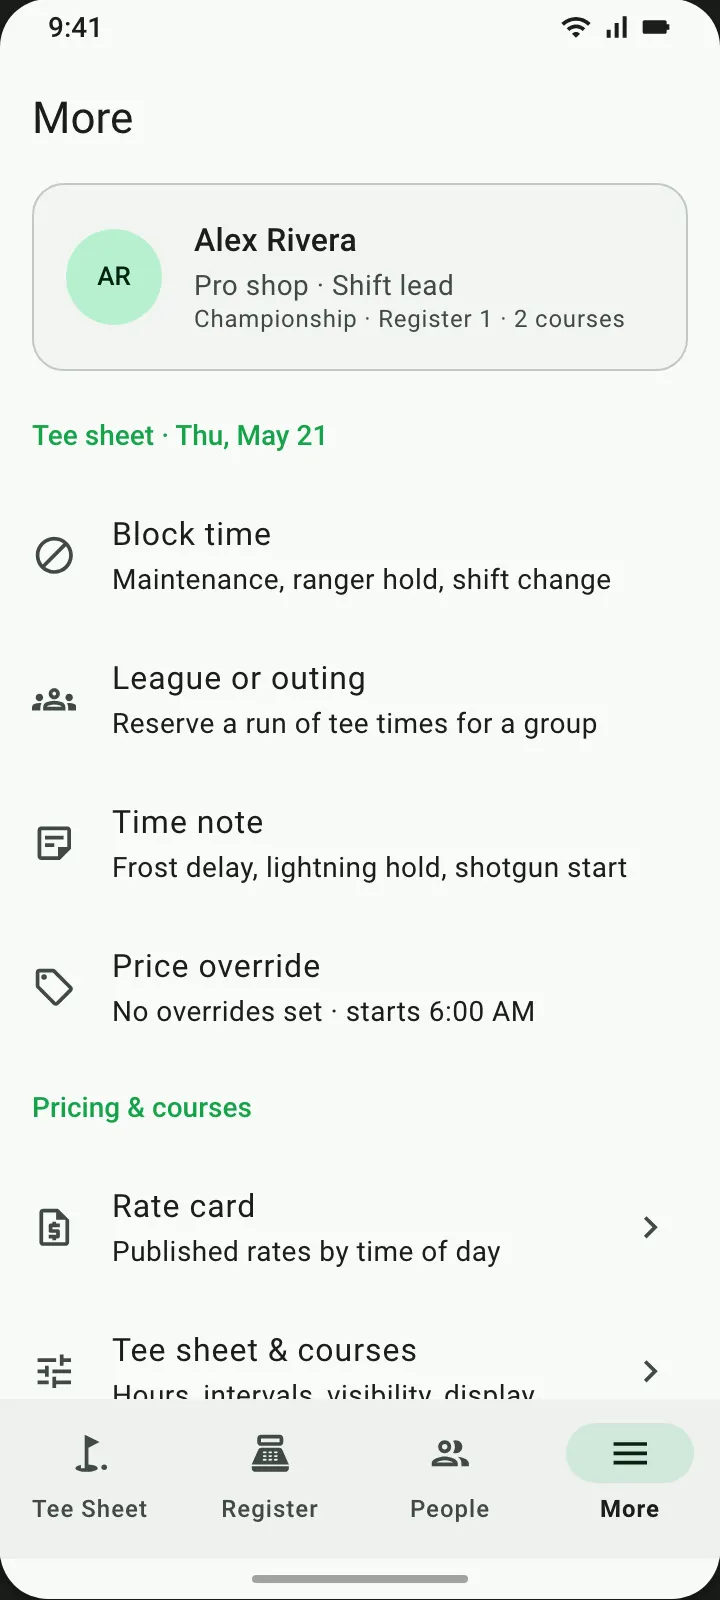
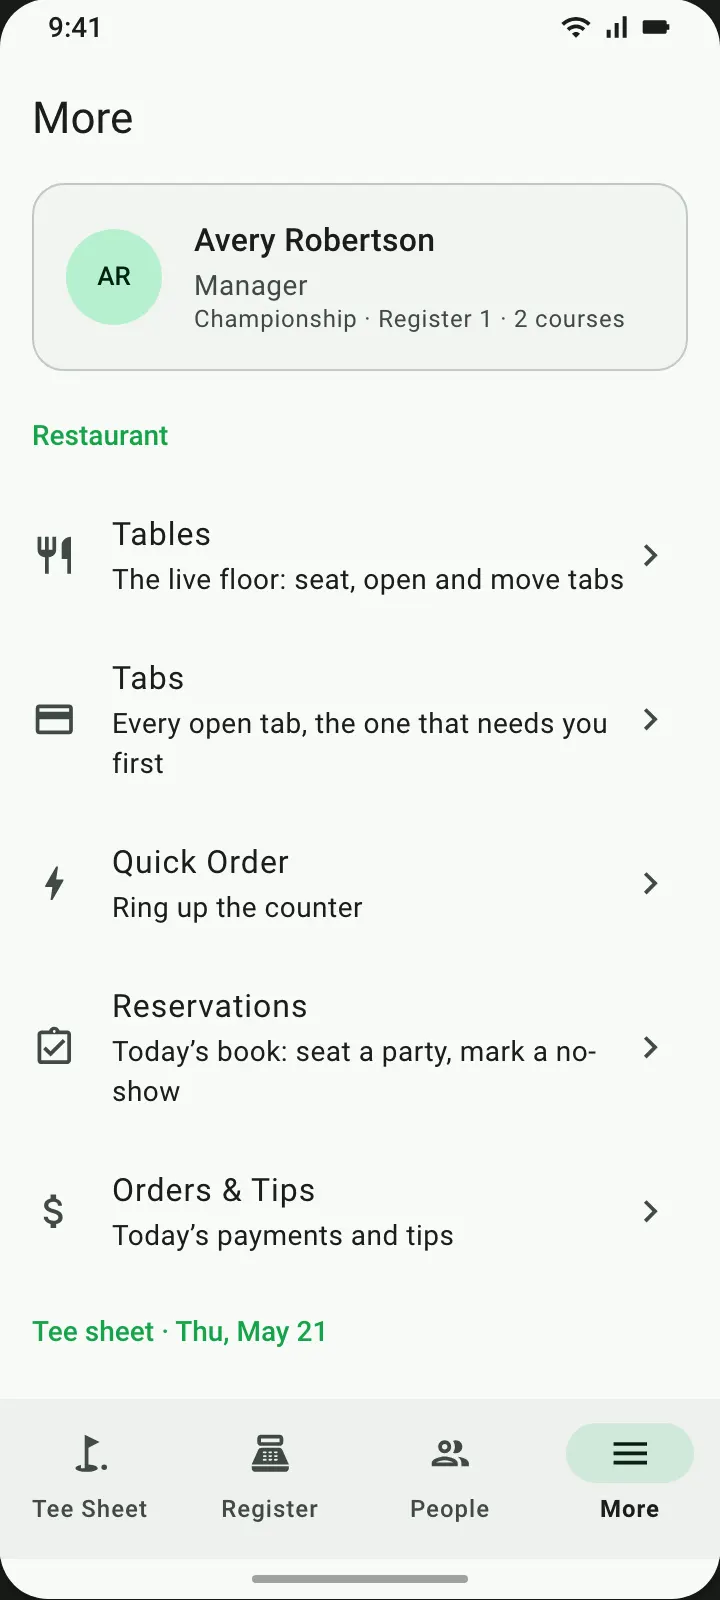
Docs and phone: the handheld restaurant in Start Here, and room under the FAB
- Start Here, the review summary and the phone Screen index now say both
  surfaces are V1 → V2, with the restaurant on the handheld and its bar by role;
  the roadmap's "being built now" milestone is dated Nov 26 and links the index.
- Phone screen index: cards and screenshots for Quick Order, Tabs, Tables,
  Reservations and Orders & Tips; Global Nav describes the bar by role.
- MobileScreen: with a FAB, the body ends in 88px of room, so a tab's total
  and the People list's last row scroll out from under the button.

diff --git a/src/stories/prototypes/screen-index-data.ts b/src/stories/prototypes/screen-index-data.ts
@@ -1,7 +1,7 @@
 // Generated by scripts/gen-screen-index.mjs. Do not edit by hand.
 // Edit descriptions in that script (DESCRIPTIONS), then run it with Storybook up:
 //   node scripts/gen-screen-index.mjs
-// Rows are in sidebar order, which is nav order. 413 tablet stories · 172 phone stories.
+// Rows are in sidebar order, which is nav order. 413 tablet stories · 212 phone stories.
 
 export interface ScreenIndexRow {
   /** Storybook story id. */
@@ -442,6 +442,13 @@ export const TABLET_SCREENS: ScreenIndexRow[] = [
 export const MOBILE_SCREENS: ScreenIndexRow[] = [
   {"id":"prototypes-mobile-global-nav-navigation--interactive","area":"Global Nav","topic":"Navigation","name":"Interactive","description":"The whole phone app, clickable: four destinations on the navigation bar, everything else one level down.","docs":"prototypes-mobile-global-nav-navigation--overview","route":"mobile-screens-0-·-navigation--interactive"},
   {"id":"prototypes-mobile-global-nav-navigation--order-in-progress","area":"Global Nav","topic":"Navigation","name":"Order In Progress","description":"The whole phone app with an order on the Register tab, so its badge shows the line count.","docs":"prototypes-mobile-global-nav-navigation--overview","route":"mobile-screens-0-·-navigation--order-in-progress"},
+  {"id":"prototypes-mobile-global-nav-menu-by-role--a-servers-bar","area":"Global Nav","topic":"Menu by role","name":"A Servers Bar","description":"A server's bar: the restaurant. Jordan Ellis opens on the floor.","docs":"prototypes-mobile-global-nav-menu-by-role--overview","route":"prototypes-mobile-global-nav-menu-by-role--a-servers-bar"},
+  {"id":"prototypes-mobile-global-nav-menu-by-role--a-hosts-bar","area":"Global Nav","topic":"Menu by role","name":"A Hosts Bar","description":"A host's bar: seating. Tables and Reservations — the host seats parties, the server orders.","docs":"prototypes-mobile-global-nav-menu-by-role--overview","route":"prototypes-mobile-global-nav-menu-by-role--a-hosts-bar"},
+  {"id":"prototypes-mobile-global-nav-menu-by-role--a-managers-more","area":"Global Nav","topic":"Menu by role","name":"A Managers More","description":"A manager keeps the golf bar, and finds the restaurant in More.","docs":"prototypes-mobile-global-nav-menu-by-role--overview","route":"prototypes-mobile-global-nav-menu-by-role--a-managers-more"},
+  {"id":"prototypes-mobile-global-nav-menu-by-role--a-manager-opens-tables","area":"Global Nav","topic":"Menu by role","name":"A Manager Opens Tables","description":"From More, the floor is a push: a back arrow, and the golf bar's own stacks untouched.","docs":"prototypes-mobile-global-nav-menu-by-role--overview","route":"prototypes-mobile-global-nav-menu-by-role--a-manager-opens-tables"},
+  {"id":"prototypes-mobile-global-nav-menu-by-role--pro-shop-sees-no-restaurant","area":"Global Nav","topic":"Menu by role","name":"Pro Shop Sees No Restaurant","description":"Pro shop sees no restaurant at all — not dimmed, not listed.","docs":"prototypes-mobile-global-nav-menu-by-role--overview","route":"prototypes-mobile-global-nav-menu-by-role--pro-shop-sees-no-restaurant"},
+  {"id":"prototypes-mobile-global-nav-menu-by-role--a-servers-more","area":"Global Nav","topic":"Menu by role","name":"A Servers More","description":"A server's More has what is not on their bar — Reservations and Orders & Tips — and none of the tee sheet's tools.","docs":"prototypes-mobile-global-nav-menu-by-role--overview","route":"prototypes-mobile-global-nav-menu-by-role--a-servers-more"},
+  {"id":"prototypes-mobile-global-nav-menu-by-role--switching-operator","area":"Global Nav","topic":"Menu by role","name":"Switching Operator","description":"Switching operator changes the bar. The manager signs Jordan in from More; the bar becomes the server's while More stays open — More is on every bar, so nobody is…","docs":"prototypes-mobile-global-nav-menu-by-role--overview","route":"prototypes-mobile-global-nav-menu-by-role--switching-operator"},
   {"id":"prototypes-mobile-pro-shop-register-order--empty-register","area":"Pro Shop","topic":"Register & order","name":"Empty Register","description":"The register at rest — the destination root, so no back arrow and the navigation bar is showing.","docs":"prototypes-mobile-pro-shop-register-order--overview","route":"mobile-screens-1-·-register-order--empty-register"},
   {"id":"prototypes-mobile-pro-shop-register-order--search-items","area":"Pro Shop","topic":"Register & order","name":"Search Items","description":"Search results replace the category grid in place — the MD3 search pattern — rather than pushing a search screen, so clearing the field is the way back.","docs":"prototypes-mobile-pro-shop-register-order--overview","route":"mobile-screens-1-·-register-order--search-items"},
   {"id":"prototypes-mobile-pro-shop-register-order--order-in-progress","area":"Pro Shop","topic":"Register & order","name":"Order In Progress","description":"An order in progress. The start cards give way to the View order bar, pinned above the navigation bar with the line count and running total; the Register tab carries…","docs":"prototypes-mobile-pro-shop-register-order--overview","route":"mobile-screens-1-·-register-order--order-in-progress"},
@@ -598,6 +605,39 @@ export const MOBILE_SCREENS: ScreenIndexRow[] = [
   {"id":"prototypes-mobile-tee-sheet-operations--rate-card","area":"Tee Sheet","topic":"Operations","name":"Rate Card","description":"The published rate card: a read-only push from More.","docs":"prototypes-mobile-tee-sheet-operations--overview","route":"mobile-screens-6-·-operations--rate-card"},
   {"id":"prototypes-mobile-tee-sheet-operations--course-settings","area":"Tee Sheet","topic":"Operations","name":"Course Settings","description":"Tee sheet & courses overview, pushed from More.","docs":"prototypes-mobile-tee-sheet-operations--overview","route":"mobile-screens-6-·-operations--course-settings"},
   {"id":"prototypes-mobile-tee-sheet-operations--course-settings-course","area":"Tee Sheet","topic":"Operations","name":"Course Settings Course","description":"One course's settings, two levels below More.","docs":"prototypes-mobile-tee-sheet-operations--overview","route":"mobile-screens-6-·-operations--course-settings-course"},
+  {"id":"prototypes-mobile-quick-order-counter-on-the-handheld--the-counter","area":"Quick Order","topic":"Counter on the handheld","name":"The Counter","description":"The counter, on the menu running at noon, grill first.","docs":"prototypes-mobile-quick-order-counter-on-the-handheld--overview","route":"prototypes-mobile-quick-order-counter-on-the-handheld--the-counter"},
+  {"id":"prototypes-mobile-quick-order-counter-on-the-handheld--ring-a-burger","area":"Quick Order","topic":"Counter on the handheld","name":"Ring A Burger","description":"Ring a burger. Temp and Sides are required; the burger can't be added until both are chosen.","docs":"prototypes-mobile-quick-order-counter-on-the-handheld--overview","route":"prototypes-mobile-quick-order-counter-on-the-handheld--ring-a-burger"},
+  {"id":"prototypes-mobile-quick-order-counter-on-the-handheld--review-the-order","area":"Quick Order","topic":"Counter on the handheld","name":"Review The Order","description":"Review order — the tablet's rail, as a page: each dish with its choices and its allergy flag, not yet sent; Send 2 and Charge.","docs":"prototypes-mobile-quick-order-counter-on-the-handheld--overview","route":"prototypes-mobile-quick-order-counter-on-the-handheld--review-the-order"},
+  {"id":"prototypes-mobile-quick-order-counter-on-the-handheld--search-both-menus","area":"Quick Order","topic":"Counter on the handheld","name":"Search Both Menus","description":"Search both menus. \"caesar\" finds the 19th Hole's salad from the counter.","docs":"prototypes-mobile-quick-order-counter-on-the-handheld--overview","route":"prototypes-mobile-quick-order-counter-on-the-handheld--search-both-menus"},
+  {"id":"prototypes-mobile-quick-order-counter-on-the-handheld--a-menu-that-is-not-running","area":"Quick Order","topic":"Counter on the handheld","name":"A Menu That Is Not Running","description":"A menu that isn't running. Dinner starts at 5:00 PM: chosen from the menus sheet at noon, it says so above its items, which still ring at their usual price.","docs":"prototypes-mobile-quick-order-counter-on-the-handheld--overview","route":"prototypes-mobile-quick-order-counter-on-the-handheld--a-menu-that-is-not-running"},
+  {"id":"prototypes-mobile-quick-order-counter-on-the-handheld--while-a-tab-is-being-paid","area":"Quick Order","topic":"Counter on the handheld","name":"While A Tab Is Being Paid","description":"The counter waits while a tab is being paid.","docs":"prototypes-mobile-quick-order-counter-on-the-handheld--overview","route":"prototypes-mobile-quick-order-counter-on-the-handheld--while-a-tab-is-being-paid"},
+  {"id":"prototypes-mobile-tabs-tabs-on-the-handheld--open-tabs","area":"Tabs","topic":"Tabs on the handheld","name":"Open Tabs","description":"Every open tab, Farnsworth's check request first, then the tables with food not sent.","docs":"prototypes-mobile-tabs-tabs-on-the-handheld--overview","route":"prototypes-mobile-tabs-tabs-on-the-handheld--open-tabs"},
+  {"id":"prototypes-mobile-tabs-tabs-on-the-handheld--just-mine","area":"Tabs","topic":"Tabs on the handheld","name":"Just Mine","description":"Mine: Jordan's two tables, nothing else.","docs":"prototypes-mobile-tabs-tabs-on-the-handheld--overview","route":"prototypes-mobile-tabs-tabs-on-the-handheld--just-mine"},
+  {"id":"prototypes-mobile-tabs-tabs-on-the-handheld--a-tab-by-seat","area":"Tabs","topic":"Tabs on the handheld","name":"A Tab By Seat","description":"A tab, seat by seat. Table 5 is half sent: the filet and the calamari went at 11:51 (locked), the butter cake and a glass of cabernet have not …","docs":"prototypes-mobile-tabs-tabs-on-the-handheld--overview","route":"prototypes-mobile-tabs-tabs-on-the-handheld--a-tab-by-seat"},
+  {"id":"prototypes-mobile-tabs-tabs-on-the-handheld--the-menu","area":"Tabs","topic":"Tabs on the handheld","name":"The Menu","description":"The menu, open on a seat — the dining room's menu running at noon, photographed.","docs":"prototypes-mobile-tabs-tabs-on-the-handheld--overview","route":"prototypes-mobile-tabs-tabs-on-the-handheld--the-menu"},
+  {"id":"prototypes-mobile-tabs-tabs-on-the-handheld--the-dish-dialog","area":"Tabs","topic":"Tabs on the handheld","name":"The Dish Dialog","description":"The dish dialog. A filet for seat 1: Temp is Choose one and required, Enhancements and Allergies are Choose any, the allergies edged in red; the add button waits, and…","docs":"prototypes-mobile-tabs-tabs-on-the-handheld--overview","route":"prototypes-mobile-tabs-tabs-on-the-handheld--the-dish-dialog"},
+  {"id":"prototypes-mobile-tabs-tabs-on-the-handheld--add-an-item-with-modifiers","area":"Tabs","topic":"Tabs on the handheld","name":"Add An Item With Modifiers","description":"Add an item with modifiers. P2 has just sat.","docs":"prototypes-mobile-tabs-tabs-on-the-handheld--overview","route":"prototypes-mobile-tabs-tabs-on-the-handheld--add-an-item-with-modifiers"},
+  {"id":"prototypes-mobile-tabs-tabs-on-the-handheld--send-to-kitchen","area":"Tabs","topic":"Tabs on the handheld","name":"Send To Kitchen","description":"Send to kitchen. Table 5's two unsent plates go as one ticket; every line is now locked.","docs":"prototypes-mobile-tabs-tabs-on-the-handheld--overview","route":"prototypes-mobile-tabs-tabs-on-the-handheld--send-to-kitchen"},
+  {"id":"prototypes-mobile-tabs-tabs-on-the-handheld--a-sent-line-is-locked","area":"Tabs","topic":"Tabs on the handheld","name":"A Sent Line Is Locked","description":"A sent line can't be edited. The filet went at 11:51: its sheet says it is locked and why, offers Void — behind a confirm — and no Edit or Remove.","docs":"prototypes-mobile-tabs-tabs-on-the-handheld--overview","route":"prototypes-mobile-tabs-tabs-on-the-handheld--a-sent-line-is-locked"},
+  {"id":"prototypes-mobile-tabs-tabs-on-the-handheld--an-unsent-line-edits","area":"Tabs","topic":"Tabs on the handheld","name":"An Unsent Line Edits","description":"An unsent line edits in place: its sheet offers Edit and Remove, one tap each.","docs":"prototypes-mobile-tabs-tabs-on-the-handheld--overview","route":"prototypes-mobile-tabs-tabs-on-the-handheld--an-unsent-line-edits"},
+  {"id":"prototypes-mobile-tabs-tabs-on-the-handheld--split-and-discount","area":"Tabs","topic":"Tabs on the handheld","name":"Split And Discount","description":"Move, split and discount a sent plate.","docs":"prototypes-mobile-tabs-tabs-on-the-handheld--overview","route":"prototypes-mobile-tabs-tabs-on-the-handheld--split-and-discount"},
+  {"id":"prototypes-mobile-tabs-tabs-on-the-handheld--pay-a-tab","area":"Tabs","topic":"Tabs on the handheld","name":"Pay A Tab","description":"Pay a tab. Farnsworth asked for the check.","docs":"prototypes-mobile-tabs-tabs-on-the-handheld--overview","route":"prototypes-mobile-tabs-tabs-on-the-handheld--pay-a-tab"},
+  {"id":"prototypes-mobile-tabs-tabs-on-the-handheld--backing-out-of-checkout","area":"Tabs","topic":"Tabs on the handheld","name":"Backing Out Of Checkout","description":"Backing out of checkout leaves the tab as it was, and the register empty.","docs":"prototypes-mobile-tabs-tabs-on-the-handheld--overview","route":"prototypes-mobile-tabs-tabs-on-the-handheld--backing-out-of-checkout"},
+  {"id":"prototypes-mobile-tabs-tabs-on-the-handheld--pay-refused-while-the-register-is-busy","area":"Tabs","topic":"Tabs on the handheld","name":"Pay Refused While The Register Is Busy","description":"The register holds someone else's order: Pay is refused, and the tab says why rather than the tap doing nothing.","docs":"prototypes-mobile-tabs-tabs-on-the-handheld--overview","route":"prototypes-mobile-tabs-tabs-on-the-handheld--pay-refused-while-the-register-is-busy"},
+  {"id":"prototypes-mobile-tabs-tabs-on-the-handheld--tab-options","area":"Tabs","topic":"Tabs on the handheld","name":"Tab Options","description":"The tab's ⋮: guests, server, check requested and move — the tab, not its food.","docs":"prototypes-mobile-tabs-tabs-on-the-handheld--overview","route":"prototypes-mobile-tabs-tabs-on-the-handheld--tab-options"},
+  {"id":"prototypes-mobile-tabs-tabs-on-the-handheld--new-tab","area":"Tabs","topic":"Tabs on the handheld","name":"New Tab","description":"A new tab with no table — a bar tab, or a group's running tab.","docs":"prototypes-mobile-tabs-tabs-on-the-handheld--overview","route":"prototypes-mobile-tabs-tabs-on-the-handheld--new-tab"},
+  {"id":"prototypes-mobile-tables-floor-on-the-handheld--the-dining-room","area":"Tables","topic":"Floor on the handheld","name":"The Dining Room","description":"Lunch at noon, in the dining room.","docs":"prototypes-mobile-tables-floor-on-the-handheld--overview","route":"prototypes-mobile-tables-floor-on-the-handheld--the-dining-room"},
+  {"id":"prototypes-mobile-tables-floor-on-the-handheld--the-bar","area":"Tables","topic":"Floor on the handheld","name":"The Bar","description":"The bar: eight stools and three high-tops, Okonkwo on B3.","docs":"prototypes-mobile-tables-floor-on-the-handheld--overview","route":"prototypes-mobile-tables-floor-on-the-handheld--the-bar"},
+  {"id":"prototypes-mobile-tables-floor-on-the-handheld--a-seated-table","area":"Tables","topic":"Floor on the handheld","name":"A Seated Table","description":"A seated table's sheet. Who, how many, how long, what they owe and whether food is waiting to go — then Open tab, Check requested and Move.","docs":"prototypes-mobile-tables-floor-on-the-handheld--overview","route":"prototypes-mobile-tables-floor-on-the-handheld--a-seated-table"},
+  {"id":"prototypes-mobile-tables-floor-on-the-handheld--a-held-table","area":"Tables","topic":"Floor on the handheld","name":"A Held Table","description":"A held table. Table 3 is Delgado's at 12:30: the sheet leads with seating her, and offers a walk-in only as anyway.","docs":"prototypes-mobile-tables-floor-on-the-handheld--overview","route":"prototypes-mobile-tables-floor-on-the-handheld--a-held-table"},
+  {"id":"prototypes-mobile-tables-floor-on-the-handheld--seat-a-walk-in","area":"Tables","topic":"Floor on the handheld","name":"Seat A Walk In","description":"Seat a party. A free four-top, a walk-in of three: the dialog asks how many and who serves (the signed-in server by default), Seat opens the tab — one seat…","docs":"prototypes-mobile-tables-floor-on-the-handheld--overview","route":"prototypes-mobile-tables-floor-on-the-handheld--seat-a-walk-in"},
+  {"id":"prototypes-mobile-tables-floor-on-the-handheld--seat-a-reservation","area":"Tables","topic":"Floor on the handheld","name":"Seat A Reservation","description":"Seat a reservation. Delgado arrives for 12:30: one tap on her held table seats her — the tab opens on Table 3 sized to her party of four, linked to the reservation.","docs":"prototypes-mobile-tables-floor-on-the-handheld--overview","route":"prototypes-mobile-tables-floor-on-the-handheld--seat-a-reservation"},
+  {"id":"prototypes-mobile-tables-floor-on-the-handheld--a-walk-in-on-a-held-table","area":"Tables","topic":"Floor on the handheld","name":"A Walk In On A Held Table","description":"Seating a walk-in on a held table says, before it is done, whose table it is taking.","docs":"prototypes-mobile-tables-floor-on-the-handheld--overview","route":"prototypes-mobile-tables-floor-on-the-handheld--a-walk-in-on-a-held-table"},
+  {"id":"prototypes-mobile-reservations-today-on-the-handheld--todays-book","area":"Reservations","topic":"Today on the handheld","name":"Todays Book","description":"Today's book: lunch half seated, a no-show, and the evening's dinners, some still without a table.","docs":"prototypes-mobile-reservations-today-on-the-handheld--overview","route":"prototypes-mobile-reservations-today-on-the-handheld--todays-book"},
+  {"id":"prototypes-mobile-reservations-today-on-the-handheld--seat-a-party-with-no-table","area":"Reservations","topic":"Today on the handheld","name":"Seat A Party With No Table","description":"Seat a party with no table. Walsh, a two at 1:00 with no table yet: the sheet offers to choose one, the list is the tables free for her whole…","docs":"prototypes-mobile-reservations-today-on-the-handheld--overview","route":"prototypes-mobile-reservations-today-on-the-handheld--seat-a-party-with-no-table"},
+  {"id":"prototypes-mobile-reservations-today-on-the-handheld--a-seated-party","area":"Reservations","topic":"Today on the handheld","name":"A Seated Party","description":"A party already seated opens its tab from the book.","docs":"prototypes-mobile-reservations-today-on-the-handheld--overview","route":"prototypes-mobile-reservations-today-on-the-handheld--a-seated-party"},
+  {"id":"prototypes-mobile-orders-tips-today-on-the-handheld--the-day-so-far","area":"Orders & Tips","topic":"Today on the handheld","name":"The Day So Far","description":"The day so far, pushed from a server's More.","docs":"prototypes-mobile-orders-tips-today-on-the-handheld--overview","route":"prototypes-mobile-orders-tips-today-on-the-handheld--the-day-so-far"},
+  {"id":"prototypes-mobile-orders-tips-today-on-the-handheld--just-mine","area":"Orders & Tips","topic":"Today on the handheld","name":"Just Mine","description":"Mine: only what Jordan took.","docs":"prototypes-mobile-orders-tips-today-on-the-handheld--overview","route":"prototypes-mobile-orders-tips-today-on-the-handheld--just-mine"},
   {"id":"weston-edits-4-·-customer-profile-mobile--booker-record","area":"Customer Search","topic":"Customer profile","name":"Booker Record","description":"The booker's record: contact, membership, account, credits and rounds played.","docs":"weston-edits-4-·-customer-profile-mobile--overview","route":"weston-edits-4-·-customer-profile-mobile--booker-record"},
   {"id":"weston-edits-4-·-customer-profile-mobile--linked-guest","area":"Customer Search","topic":"Customer profile","name":"Linked Guest","description":"A guest seat linked to a real customer — their record, not the booker's.","docs":"weston-edits-4-·-customer-profile-mobile--overview","route":"weston-edits-4-·-customer-profile-mobile--linked-guest"},
   {"id":"weston-edits-4-·-customer-profile-mobile--assign-a-seat","area":"Customer Search","topic":"Customer profile","name":"Assign A Seat","description":"An empty seat opens the same route in assign mode: search the roster, or create somebody.","docs":"weston-edits-4-·-customer-profile-mobile--overview","route":"weston-edits-4-·-customer-profile-mobile--assign-a-seat"},

diff --git a/src/stories/prototypes/screen-index.tsx b/src/stories/prototypes/screen-index.tsx
@@ -207,8 +207,8 @@ const TABLET_AREAS: Record<string, AreaCopy> = {
 const MOBILE_AREAS: Record<string, AreaCopy> = {
   'Global Nav': {
     shot: 'mobile-more',
-    title: 'Four destinations, one level down',
-    blurb: 'Tee Sheet, Register, People and More on the navigation bar. Everything else is a pushed page, a full-screen dialog or a payment takeover.',
+    title: 'A bottom bar for each role',
+    blurb: 'Pro shop and managers get Tee Sheet, Register, People and More; servers and bartenders Tables, Tabs and Quick Order; hosts Tables and Reservations. Everything else is a pushed page, a full-screen dialog or a payment takeover.',
     lookAt: 'whether each tab keeps its place, and the Register tab’s badge.',
     route: '',
   },
@@ -225,6 +225,39 @@ const MOBILE_AREAS: Record<string, AreaCopy> = {
     blurb: 'The week strip and calendar sheet, then a tee time opens its reservation: players, rates and carts, then Check in & pay.',
     lookAt: 'the player rows at 360 wide, the rate dialog, the pinned Check in & pay.',
     route: '',
+  },
+  'Quick Order': {
+    shot: 'mobile-quick-order',
+    title: 'Counter orders on the handheld',
+    blurb: 'The menu running now, photo tiles, search across both menus, then review, send to the kitchen or charge.',
+    lookAt: 'the menu that opens by time of day, and the dish screen’s Choose one / Choose any.',
+    route: 'prototypes-mobile-quick-order-counter-on-the-handheld--the-counter',
+  },
+  Tabs: {
+    shot: 'mobile-tab',
+    title: 'A tab, seat by seat',
+    blurb: 'Open tabs with the tables that need attention first, a tab by seat with a Shared band, send to kitchen, then pay with the phone’s checkout.',
+    lookAt: 'a sent line locking (void to change it), and Move, Split and Discount still working.',
+    route: 'prototypes-mobile-tabs-tabs-on-the-handheld--a-tab-by-seat',
+  },
+  Tables: {
+    shot: 'mobile-tables',
+    title: 'The floor, one room at a time',
+    blurb: 'Every table as a status tile, using the tablet’s rules and colours; tap one to seat a walk-in or a reservation, or open its tab.',
+    lookAt: 'the statuses at a glance, and seating a party in two taps.',
+    route: 'prototypes-mobile-tables-floor-on-the-handheld--the-dining-room',
+  },
+  Reservations: {
+    shot: 'mobile-reservations',
+    title: 'Today’s book',
+    blurb: 'Today’s dining reservations by time: seat a party at a table, or mark a no-show.',
+    route: 'prototypes-mobile-reservations-today-on-the-handheld--todays-book',
+  },
+  'Orders & Tips': {
+    shot: 'mobile-orders-tips',
+    title: 'The day so far',
+    blurb: 'Every paid order with its tip kept apart, read-only on the handheld, with a Mine filter.',
+    route: 'prototypes-mobile-orders-tips-today-on-the-handheld--the-day-so-far',
   },
   'Customer Search': {
     shot: 'mobile-people',

diff --git a/src/pos/mobile/chrome.tsx b/src/pos/mobile/chrome.tsx
@@ -159,6 +159,10 @@ export function MobileScreen({
       {topBar}
       <Box onScroll={onBodyScroll} sx={{ flex: 1, minHeight: 0, overflowY: 'auto', overflowX: 'hidden', ...bodySx }}>
         {children}
+        {/* With a FAB, the body ends in room for it (56 tall + 16 off the edge + 16 clear), so the
+            last row — a list's last name, a tab's total — can scroll out from under the button
+            instead of sitting behind it at the bottom of the list. */}
+        {fab && <Box aria-hidden sx={{ height: 88, flexShrink: 0 }} />}
       </Box>
       {fab && (
         <Box sx={{ position: 'absolute', right: 16, bottom: 16 + (bottomBar ? 80 : 0), zIndex: 2 }}>
